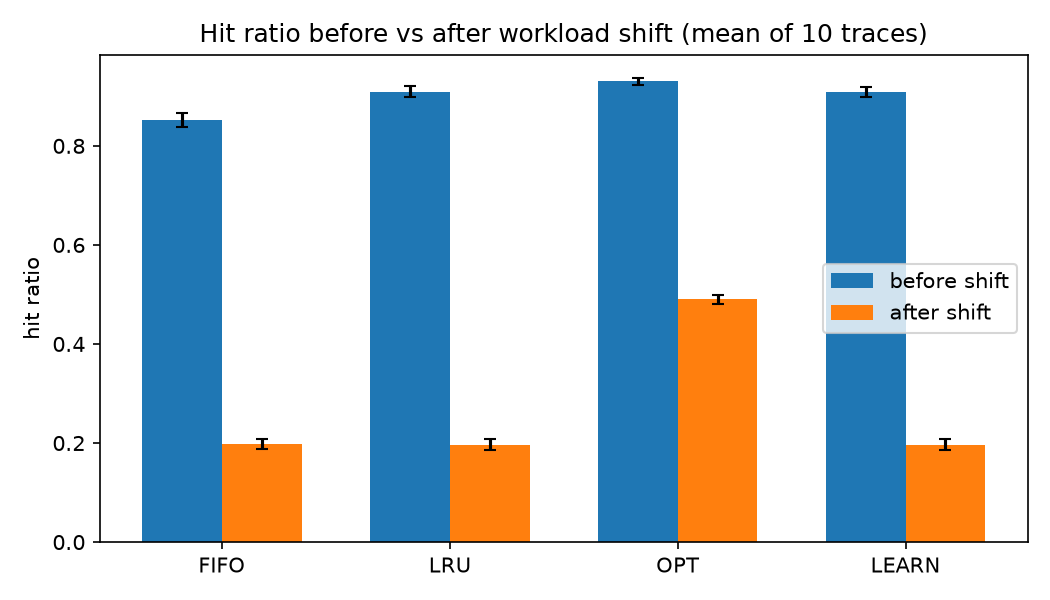
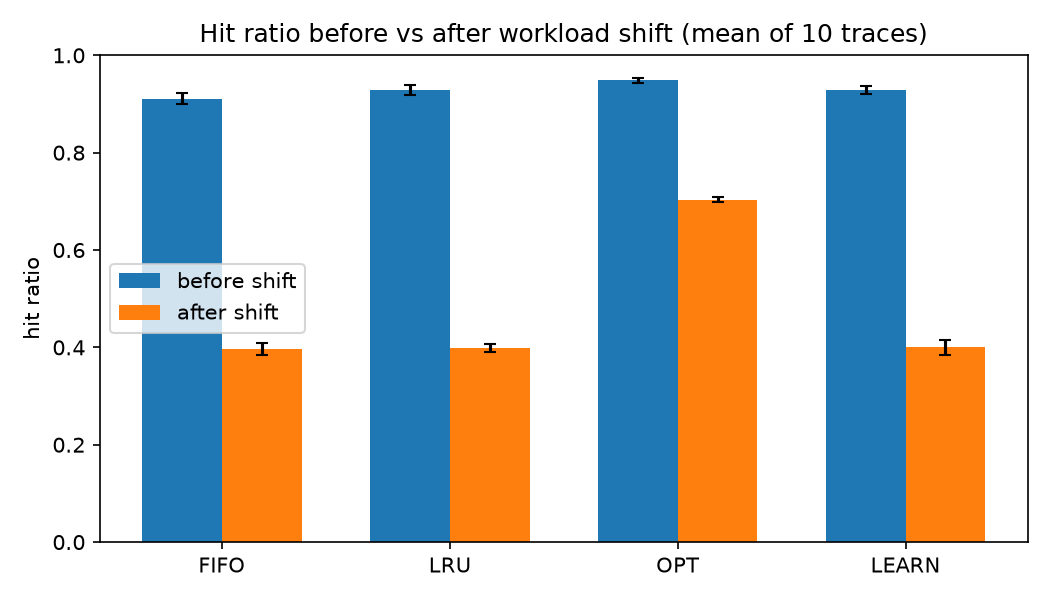
Final submission: experiments, bonus, results, README

diff --git a/README.md b/README.md
@@ -1,0 +1,157 @@
+## Setup
+
+Requires Python 3.8 or newer.
+
+```
+git clone https://github.com/sumaiyafahmida2610-sudo/os-term-paper.git
+cd os-term-paper
+pip install scikit-learn matplotlib
+```
+
+## How to run
+
+Run these from the repository folder:
+
+```
+python traces.py     # sanity check of the trace generator
+python policies.py   # demo example, single-trace comparison, learned tree rules
+python run.py        # 10-trace experiment -> results/summary.csv, results/hit_ratio.png
+python explain.py    # bonus analysis -> results/calibration.csv, calibration.png, explanations.txt
+```
+
+To repeat the memory-size experiment, change `NUM_FRAMES` at the top of `run.py`
+(I used 5, 10, and 20), save, and run `python run.py` again. Each run overwrites
+`results/summary.csv`, so copy it first if you want to keep it
+(for example `cp results/summary.csv results/summary_frames5.csv`).
+
+All random traces use fixed seeds (training seed 1, test seeds 100-109), so
+results are reproducible.
+
+## AI assistance disclosure
+
+I used Claude (Anthropic) as a learning and coding assistant for this project.
+
+Claude helped with:
+- Explaining how FIFO, LRU, and Optimal page replacement work
+- Suggesting Track 1 and the overall design: the locality-then-random trace,
+  recency and frequency as features, labels taken from Optimal's eviction
+  choices, a decision tree, and training and testing on different seeds
+- Writing the code in this repository (`traces.py`, `policies.py`, `run.py`,
+  `explain.py`), which I went through step by step with its explanations
+- Suggesting the memory-size experiment (5, 10, and 20 frames) and drafting a
+  plain-text summary of its results, which I reviewed
+- The template-based explanations and the confidence-versus-correctness
+  analysis for the bonus part
+
+I did myself:
+- Created and organized the repository
+- Ran all experiments, including the additional memory-size experiment, and
+  collected the results in `results/`
+-  I did a expectation vs observation analysis on three test. Here is what I noted:
+## Expectation vs. Observed Results
+
+Before running the memory-size experiment, we expected the following:
+
+* After the workload shift, FIFO, LRU, and LEARN were expected to achieve a hit ratio close to `frames / 50`, because the second half of the workload is uniformly random over 50 pages.
+* OPT was expected to remain above `frames / 50` because it has knowledge of future requests.
+* Before the shift, the 5-page working set was expected to give high hit ratios, but performance was expected to be noticeably worse with only 5 frames because the 10% random requests could evict useful working-set pages.
+* With 20 frames, all policies were expected to perform well and become closer to each other because the working set would fit comfortably in memory.
+* The learned policy was expected to behave similarly to LRU, although it might perform differently when memory was very tight.
+* The advantage of choosing a particular replacement policy was expected to become smaller as the number of frames increased.
+
+### What the Results Showed
+
+The results strongly confirmed the main expectations.
+
+**1. After the shift, FIFO, LRU, and LEARN matched `frames / 50`.**
+
+| Frames | Expected | FIFO  | LRU   | LEARN |
+| ------ | -------- | ----- | ----- | ----- |
+| 5      | 0.10     | 0.096 | 0.095 | 0.093 |
+| 10     | 0.20     | 0.198 | 0.197 | 0.197 |
+| 20     | 0.40     | 0.396 | 0.399 | 0.400 |
+
+The observed values are within about 0.005 of the expected values. This confirms that, once the workload becomes uniformly random, policies that only use past information cannot significantly improve the hit ratio through a smarter replacement strategy. Increasing the number of frames is the main way to improve performance.
+
+**2. OPT performed much better than expected history-based policies after the shift.**
+
+OPT achieved hit ratios of:
+
+* 0.314 with 5 frames
+* 0.490 with 10 frames
+* 0.704 with 20 frames
+
+This confirms the expected advantage of knowing future requests. Unlike FIFO, LRU, and LEARN, OPT can use future information to decide which page to evict.
+
+**3. Before the shift, 5 frames produced noticeably worse performance.**
+
+The observed hit ratios were:
+
+* FIFO: 0.701
+* LRU: 0.761
+* LEARN: 0.837
+* OPT: 0.861
+
+The initial estimate for FIFO and LRU was around 0.75–0.85. LRU was close to this range, while FIFO performed worse at 0.701. The learned policy performed considerably better than initially expected.
+
+**4. With 20 frames, the policies became much closer.**
+
+The results were:
+
+* FIFO: 0.911
+* LRU: 0.929
+* LEARN: 0.928
+* OPT: 0.948
+
+This matches the expectation that extra memory reduces the importance of the replacement policy. The 5-page working set fits easily, so FIFO, LRU, LEARN, and OPT have much smaller differences.
+
+**5. LEARN showed an important difference from LRU at 5 frames.**
+
+At 5 frames:
+
+* LRU = 0.761
+* LEARN = 0.837
+
+The learned policy was substantially better than LRU.
+
+However, at 10 and 20 frames, they were almost identical:
+
+* 10 frames: LRU = 0.910, LEARN = 0.909
+* 20 frames: LRU = 0.929, LEARN = 0.928
+
+This suggests that the learned policy provides its main benefit when memory is tight. A possible explanation is that the learned policy uses access frequency in addition to recency, allowing it to distinguish one-off random pages from frequently accessed working-set pages. With more memory, the extra frames reduce the need for this distinction.
+
+This explanation is a hypothesis and would need further experiments to confirm.
+
+**6. The expected reduction in policy differences with more memory was confirmed.**
+
+The gap between OPT and FIFO before the shift decreased as memory increased:
+
+* 5 frames: 0.861 - 0.701 = 0.160
+* 10 frames: 0.931 - 0.852 = 0.079
+* 20 frames: 0.948 - 0.911 = 0.037
+
+Therefore, replacement-policy choice matters most when memory is limited.
+
+### Overall Conclusion
+
+The experiment largely confirmed the original expectations.
+
+The strongest result is that after the workload changes to uniform random access, FIFO, LRU, and LEARN all converge to approximately `frames / 50`, regardless of how sophisticated the replacement policy is. More memory is therefore the main remedy for the random-access phase.
+
+Before the shift, however, the replacement policy still matters, especially when memory is tight. The learned policy achieved a clear advantage over LRU with only 5 frames, while this advantage disappeared when more memory was available.
+
+OPT remained the best-performing policy in every case because it has access to future information. This demonstrates the difference between improving replacement decisions using historical information and having actual knowledge of future requests.
+
+One result that deserves further investigation is why the learned policy significantly outperformed LRU at 5 frames but not at 10 or 20 frames. Inspecting the learned decision tree and testing whether frequency is used near the top of the tree could help explain this behavior.
+## Bonus: explanation confidence (completed)
+
+I implemented the optional bonus track in `explain.py`. For every eviction made
+by the learned policy, it generates a natural-language explanation using a
+rule-based template (no LLM API was used), along with a confidence score (the
+decision tree's score for the evicted page). It then compares confidence against
+whether the decision was correct (matched Optimal's choice).
+
+Outputs: `results/explanations.txt`, `results/calibration.csv`,
+`results/calibration.png`. Finding: confidence was nearly identical for correct
+and wrong decisions, so it was uninformative and overconfident.
